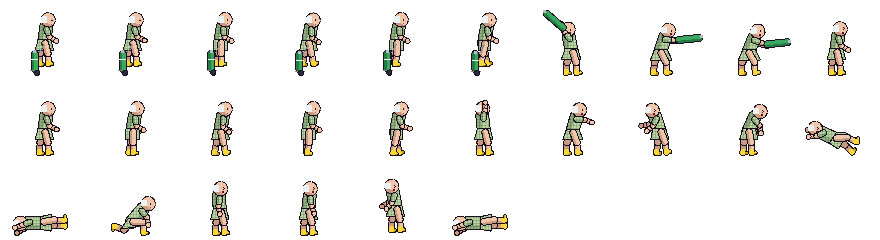
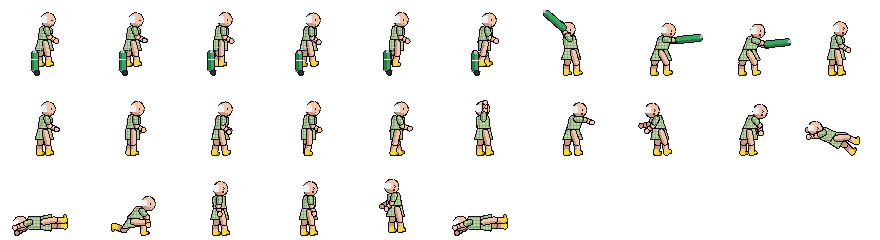
v0.8.1 "Waistline": separate scrub tops and pants, no more onesie/diaper look
Bill: "all of the characters look like they have a onesie or a diaper on.
they have no waist." The torso was one capsule whose round bottom covered
the hips in the shirt colour, over pants of the same colour.

- tools/rig.py figure(): the torso is now a shaped top (shoulders -> a
  narrower waist -> slight hip flare) that ends at the hips with a visible
  hem (ink edge + stitch row), over a pants seat with a waistband and
  drawstring ends (or Will's belt + buckle). Hip joints sit further apart
  and thighs are slimmer, so the legs part right under the seat with a
  gap between them. Knobs: waist, hip_flare, hem, hem_c, band, drawstring,
  hip_sep, thigh_add. Gown bodies keep a straight hang and their skirt.
- tools/chars.py: scrub pants a deeper shade than the tops (NAVY_P,
  NATE_TEAL_P); waistband colours.
- All nurse frames regenerated (select cards, HUD portraits, title,
  cutscenes, tally, ending pick it up); cutscene night nurse gets matching
  maroon pants. Patients, elites, Visitor, Lab-Coat Hugger, Lou and Tilly
  re-rendered: gowns still hang with legs below; others read as top +
  bottom. Sprite heights and all hitboxes unchanged.
- Docs: v081_before_after.png, v081_patients_before_after.png,
  v081_ingame.png, v081_select.png; refreshed v08 select shots + GIF.
  CHANGELOG v0.8.1; AGENTS.md style rule (separate top and bottom with a
  visible waist; never onesie, diaper, padded or armor). SW nbd2-app-v14.

diff --git a/src/cutscene.js b/src/cutscene.js
@@ -13,7 +13,7 @@ const INK = '#1a1020', PANEL_T = [0, 2.7, 5.4], END = 8.6;
 const FLOOR_Y = 118;
 
 function nightNurse() {  // the night-shift nurse: Jackie's build in maroon scrubs, grey hair, white clogs
-  return tintSheet('jackie', 'night', [['#283a7a', '#7a2a5a'], ['#1b2756', '#561a40'], ['#4a2a18', '#b8bcc8'], ['#2e180c', '#868a98'], ['#9a5ae0', '#f4f4f8'], ['#6a34a8', '#b8c2d0']]);
+  return tintSheet('jackie', 'night', [['#283a7a', '#7a2a5a'], ['#1b2756', '#561a40'], ['#1d2a5e', '#66204c'], ['#121a40', '#4a1434'], ['#10183a', '#38102a'], ['#4a2a18', '#b8bcc8'], ['#2e180c', '#868a98'], ['#9a5ae0', '#f4f4f8'], ['#6a34a8', '#b8c2d0']]);
 }
 const lz = (id, s, lazy) => (id === 'nate' ? lazy : s);  // v0.8: Nasty Nate's lazy take on a hero line
 const heroIds = () => { const h = W.heroes.map((q) => q.id); return h.length ? h : ['nick']; };

diff --git a/sw.js b/sw.js
@@ -1,7 +1,7 @@
 // Home-screen app support (n64-suite games). Network first, always: online play never sees a stale file. The small
 // code / data files (html, js, css, json, webmanifest) are kept in a cache only so the app can still open offline.
 // It also gives Chrome the fetch handler it wants before it offers "Install app" (beforeinstallprompt).
-const CACHE = 'nbd2-app-v13';
+const CACHE = 'nbd2-app-v14';
 const SMALL = /\.(?:html|js|css|json|webmanifest)$|\/$/;
 self.addEventListener('install', () => self.skipWaiting());
 self.addEventListener('activate', (e) => e.waitUntil(self.clients.claim()));

diff --git a/tools/rig.py b/tools/rig.py
@@ -179,7 +179,8 @@ def figure(body: dict, pose: dict, W=88, H=80, ax=44, ay=76):
         return hd, fa
 
     def leg(ta, sa, front):
-        h0 = add(hip, (1.2 if front else -1.2, 0))
+        hs = b.get("hip_sep", 1.2 if b.get("gown_len") else 1.9)  # v0.8.1: hip joints further apart so the legs part right under the seat
+        h0 = add(hip, (hs if front else -hs, 0))
         kn = add(h0, vec(ta, th))
         an = add(kn, vec(sa, sh))
         pc, ps = b["pants"], b["pants_s"]
@@ -188,7 +189,7 @@ def figure(body: dict, pose: dict, W=88, H=80, ax=44, ay=76):
         if not front:
             pc, lc, shoe = ps, lcs, shoe_s
         S.capsule(T(kn), T(an), b["leg_w"], lc, lcs)
-        S.capsule(T(h0), T(kn), b["leg_w"] + 0.8, pc, ps)
+        S.capsule(T(h0), T(kn), b["leg_w"] + b.get("thigh_add", 0.4), pc, ps)
         if b.get("pant_len", 1.0) > 0.5 and lc != pc:
             S.capsule(T(kn), T(add(kn, vec(sa, sh * (b["pant_len"] - 1.0)))), b["leg_w"] + 0.4, pc, ps) if b["pant_len"] > 1.0 else None
         toe = add(an, vec(sa + 90, b.get("foot_len", 3.2)))
@@ -203,7 +204,37 @@ def figure(body: dict, pose: dict, W=88, H=80, ax=44, ay=76):
     leg(pose["th_b"], pose["sh_b"], False)
     # ---- torso
     tw = b["torso_w"]
-    S.capsule(T(hip), T(neck), tw, b["shirt"], b["shirt_s"])
+    # v0.8.1 (Bill: "they look like they have a onesie or a diaper on ... no waist"): the torso is no longer one capsule
+    # whose round bottom swallowed the hips. It is a shaped top (shoulders -> narrower waist -> slight flare at the hips,
+    # ending in a hem just below the hip joint), with the pants' seat + waistband/drawstring peeking out under the hem
+    # and the legs hanging separately from it, so the crotch reads as a gap, not a nappy.
+    T_ = b["torso"]
+    hw = tw / 2
+    gown = bool(b.get("gown_len"))
+    wst = b.get("waist", 0.4 if gown else 2.0)        # waist inset per side
+    hem = b.get("hem", 0.5 if gown else -1.2)         # where the top ends (along the torso, 0 = hip joint)
+    flare = b.get("hip_flare", 0.2 if gown else 0.9)  # hips a touch wider than the waist
+    def up(u, sd):
+        return add(add(hip, vec(180 - lean, u)), vec(90 - lean, sd))
+    if not gown:  # seat of the pants + waistband just below the hem
+        band = b.get("belt") or b.get("band", b["pants_s"])
+        seat = [up(hem + 2.5, -hw + 1.0), up(hem + 2.5, hw - 1.0), up(hem - 1.4, hw - 0.6), up(hem - 3.4, 1.4), up(hem - 3.6, -0.6), up(hem - 1.6, -hw + 0.6)]
+        S.poly([T(q) for q in seat], b["pants"])
+        S.poly([T(up(hem + 0.4, -hw + 0.9)), T(up(hem + 0.4, hw - 0.7)), T(up(hem - 1.2, hw - 0.7)), T(up(hem - 1.2, -hw + 0.9))], band, rim=False)
+        if b.get("drawstring", not b.get("belt")):
+            ds = b.get("drawstring_c", "#e8eef4")
+            for k in (0.0, 1.0, 2.0):
+                S.set(*map(int, T(up(hem - 0.6 - k, hw * 0.35 + (0.6 if k > 1 else 0)))), ds)
+        if b.get("belt"):
+            S.set(*map(int, T(up(hem - 0.5, hw * 0.45))), b.get("buckle", "#c8b070"))
+    top = [up(hem, -hw - flare + 0.3), up(T_ * 0.38, -hw + wst), up(T_ * 0.72, -hw - 0.1), up(T_ - 1.4, -hw + 0.5),
+           up(T_ + 0.5, -hw * 0.45), up(T_ + 0.5, hw * 0.4), up(T_ - 1.4, hw - 0.3), up(T_ * 0.72, hw + 0.1),
+           up(T_ * 0.38, hw - wst + 0.3), up(hem, hw + flare)]
+    S.poly([T(q) for q in top], b["shirt"])
+    S.poly([T(q) for q in (up(hem + 1.2, -hw - flare + 1.4), up(T_ * 0.38, -hw + wst + 1.0), up(T_ * 0.72, -hw + 1.0), up(T_ - 1.6, -hw + 1.6),
+                           up(T_ - 1.6, -hw + 2.8), up(T_ * 0.72, -hw + 2.3), up(T_ * 0.38, -hw + wst + 2.2), up(hem + 1.2, -hw - flare + 2.6))], b["shirt_s"], rim=False)
+    if not gown:  # hem line: a darker stitch row just above the top's bottom edge
+        S.line(T(up(hem + 1.1, -hw - flare + 1.2)), T(up(hem + 1.1, hw + flare - 1.0)), b.get("hem_c", b["shirt_s"]))
     if b.get("belly"):
         bc = add(hip, vec(180 - lean, b["torso"] * 0.42))
         S.ellipse(T((bc[0] + b["belly"] * 0.5, bc[1])), tw / 2 + b["belly"] * 0.5, b["torso"] * 0.36, b["shirt"], b["shirt_s"])
@@ -227,9 +258,6 @@ def figure(body: dict, pose: dict, W=88, H=80, ax=44, ay=76):
     if b.get("badge"):
         bp = T(add(hip, vec(180 - lean, b["torso"] * 0.62)))
         S.rect(int(bp[0] + 1), int(bp[1]), 2, 2, b["badge"])
-    if b.get("belt"):
-        bp = T(hip)
-        S.rect(int(bp[0] - tw / 2), int(bp[1] - 1), int(tw), 1, b["belt"])
     # ---- head
     hc = T(head_c)
     r = b["head"]

diff --git a/tools/chars.py b/tools/chars.py
@@ -8,6 +8,7 @@ from rig import INK, P, hair_cap, vec, add
 SKIN = {"light": ("#f2c8a2", "#d29a76"), "fair": ("#f6d2b6", "#dba88a"), "tan": ("#dca274", "#b27a52"),
         "brown": ("#b07448", "#875432"), "old": ("#efc6aa", "#c99a82")}
 NAVY, NAVY_S = "#283a7a", "#1b2756"
+NAVY_P, NAVY_PS = "#1d2a5e", "#121a40"   # v0.8.1 scrub pants: a slightly deeper navy than the top, so top and bottom read separately
 # Traditional checked hospital gown: pale green base, darker check lines. The runtime swaps these for the faded-olive set.
 GOWN = ("#bcd6a6", "#92ae7e")              # base, shade (the rig fills with these)
 GOWN_CHECK = ("#9cba88", "#78946a", "#86a274", "#647e58")   # line on base, line on shade, crossing on base, crossing on shade
@@ -235,13 +236,14 @@ def holder(kind):
 # ---------------- bodies
 def hero_body(**kw):
     base = dict(thigh=11, shin=11, torso=17, head=6.6, uarm=8, farm=8, arm_w=3.6, leg_w=5.0, torso_w=12.5, fist=2.0, foot=2, foot_len=3.4,
-                sleeve_len=0.6, shirt=NAVY, shirt_s=NAVY_S, sleeve=NAVY, sleeve_s=NAVY_S, pants=NAVY, pants_s=NAVY_S,
+                sleeve_len=0.6, shirt=NAVY, shirt_s=NAVY_S, sleeve=NAVY, sleeve_s=NAVY_S, pants=NAVY_P, pants_s=NAVY_PS, band="#10183a",
                 shoe="#e8eef4", shoe_s="#a8b2c0", vneck=True, steth=True, badge="#f4f4f4", eye_white=True)
     base.update(kw)
     return base
 
 
 NATE_TEAL = ("#1f7a80", "#145258")   # v0.8 Nate's teal scrubs (not the navy nurses, not the pale-green gowns)
+NATE_TEAL_P = ("#175e66", "#0e3e44")   # v0.8.1 his scrub pants: a deeper teal than the top
 NATE_HAIR = ("#5a3420", "#3a2010")   # brunette
 LEAD = ("#3c4658", "#2a3242", "#5a6880")   # lead apron: slate face, shade, edge highlight (not in any runtime palette)
 
@@ -351,7 +353,7 @@ def bodies():
                           skin=sk["light"][0], skin_s=sk["light"][1], hair_c=NATE_HAIR[0], hair_s=NATE_HAIR[1], glasses="#1e1e26",
                           hair=hair_cap(top=-0.28, back=0.12, grow=0.6, fringe=0), hair_back=low_ponytail, heavy_lids=True, beard="#cc9878",
                           shirt=NATE_TEAL[0], shirt_s=NATE_TEAL[1], sleeve=NATE_TEAL[0], sleeve_s=NATE_TEAL[1],
-                          pants=NATE_TEAL[0], pants_s=NATE_TEAL[1], shoe="#3a3a44", shoe_s="#22222a", mouth="#a05a5a")
+                          pants=NATE_TEAL_P[0], pants_s=NATE_TEAL_P[1], band="#0c3438", shoe="#3a3a44", shoe_s="#22222a", mouth="#a05a5a")
     gown = dict(shirt=GOWN[0], shirt_s=GOWN[1], sleeve=GOWN[0], sleeve_s=GOWN[1], check=True,
                 vneck=False, steth=False, badge=None, eye_white=True, gown_len=9, sleeve_len=0.45)
     socks = dict(shoe=SOCK[0], shoe_s=SOCK[1], sock=SOCK[0], foot_len=3.6)

diff --git a/AGENTS.md b/AGENTS.md
@@ -8,7 +8,14 @@ A 1990s arcade beat 'em up in the spirit of Golden Axe and the TMNT and Simpsons
 their way through hospital floors full of comedic patients. Plain HTML5 Canvas 2D plus ES modules. No build step
 and no dependencies at runtime. Live on GitHub Pages: https://unclebill-spec.github.io/nicks-bad-day-2/
 
-## Current state (2026-10-04, v0.8)
+## Current state (2026-10-04, v0.8.1)
+- **v0.8.1 waistline (Bill):** the torso in tools/rig.py `figure()` is a shaped top polygon (shoulders -> waist inset `waist`
+  (default 2.0) -> hip flare `hip_flare` (0.9) -> hem at `hem` (-1.2, just below the hip joint) + a `hem_c` stitch row), drawn over a pants
+  "seat" polygon with a waistband (`band` colour, or `belt` + `buckle`) and drawstring ends (`drawstring`, `drawstring_c`). Legs hang
+  from hip joints `hip_sep` (1.9) apart with thighs `leg_w + thigh_add` (0.4). Gown bodies (`gown_len`) skip the seat, use waist 0.4 and
+  keep the skirt. Hero pants default to `NAVY_P`/`NAVY_PS` (a deeper navy than the top; Nate `NATE_TEAL_P`). The cutscene night nurse
+  (`nightNurse()` in cutscene.js) maps those pants colours to maroon; if you change them, update that tint list too.
+  Before/after: docs/v081_before_after.png, docs/v081_patients_before_after.png.
 - **v0.8 NASTY NATE (5th playable nurse):**
   - Data: `HEROES.nate` in data.js (`name` 'NASTY NATE', `short` 'NATE' for the HUD / ending, `reach` 1.45, `walk` 56, `atkK` 1.18,
     combo `lz1`-`lz3` in `ATTACKS`, `shout` = his Ativan bubble, `ativanSfx` 'ativan_nate', `lines` = his speech bubbles). `HERO_ORDER` has 5 ids.
@@ -217,6 +224,9 @@ Screenshots go to `tests/out/`, which is git-ignored. `docs/screenshots.png`, `d
 | `sw.js`, `app.webmanifest`, `icons/` | PWA (cache name `nbd2-app-vN`, now v9: **bump N on every release**) |
 
 ## Bill's standing preferences
+- **Outfit style rule (Bill, v0.8.1):** every character's clothes read as a **separate top and bottom with a visible waist**
+  (hem line, waistband / drawstring or belt, pants a different shade, legs visibly separate). **Never** a onesie, diaper,
+  padded or armor look. Gowns hang like gowns with legs visible below.
 - Brief, plain replies, with times in ET. He often uses voice-to-text, so read his messages generously.
 - Every web game needs: a fullscreen button at the far left, a sideways-phone layout, display presets,
   an in-game Install app button (Add to Home Screen steps on iPhone), touch + gamepad + keyboard, and saves.

diff --git a/CHANGELOG.md b/CHANGELOG.md
@@ -2,6 +2,26 @@
 
 All notable changes to Nick's Very Bad, Terrible Bad Day Part II. Dates are America/New_York.
 
+## 2026-10-04: v0.8.1 "Waistline" (Bill: the nurses looked like they had a onesie or a diaper on, with no waist)
+- **All five nurses redrawn with a separate scrub top and scrub pants.** The torso used to be one capsule whose round bottom
+  swallowed the hips in the shirt colour, and the pants were the same colour as the top, so everyone read as a onesie / diaper.
+  Now the shared rig (`figure()` in tools/rig.py) draws:
+  - a shaped top (Will: his blue shirt) that goes shoulders -> narrower waist -> a slight flare at the hips and **ends at the hips
+    with a visible hem** (ink edge plus a darker stitch row), keeping the slight V-neck, stethoscope and badge;
+  - a **waistband** just below the hem (darker band, white drawstring ends; Will keeps his brown belt with a buckle);
+  - **pants in a deeper shade than the top** (navy scrubs: top `#283a7a`, pants `#1d2a5e`; Nate: teal top, deeper teal pants),
+    with slimmer thighs hung from hip joints set further apart, so the **legs part right under the seat** and there's a gap
+    between them instead of a bulky crotch;
+  - natural hips and a less boxy, more human torso.
+- Every animation frame of every nurse is regenerated from the rig, so the select cards, HUD portraits, title line-up, cutscenes,
+  tally card and ending all pick it up. The night-shift nurse in the cutscenes gets matching maroon pants.
+- **Patients checked the same way:** gowns still hang like gowns with legs showing below (they just get a very slight waist);
+  the Visitor's flannel / belt / jeans, the Lab-Coat Hugger's coat over slacks and Lou's gown + lead apron all read as separate
+  top and bottom. Elites use the gown look.
+- Sizes and hitboxes unchanged (every sprite keeps its height; widths within 1 px). Before/after: `docs/v081_before_after.png`
+  (the nurses) and `docs/v081_patients_before_after.png`; in-game `docs/v081_ingame.png`, select `docs/v081_select.png`.
+  Service worker cache `nbd2-app-v14`.
+
 ## 2026-10-04: v0.8 "Nasty Nate" (Bill: a fifth, playable, extremely lazy nurse)
 - **NASTY NATE joins the shift.** A tall brunette guy with glasses and a low ponytail in plain teal scrubs (scrub top with V-neck,
   stethoscope and badge, matching pants, dark clogs). Slim, normal build: nothing padded or armored. He is the tallest nurse
